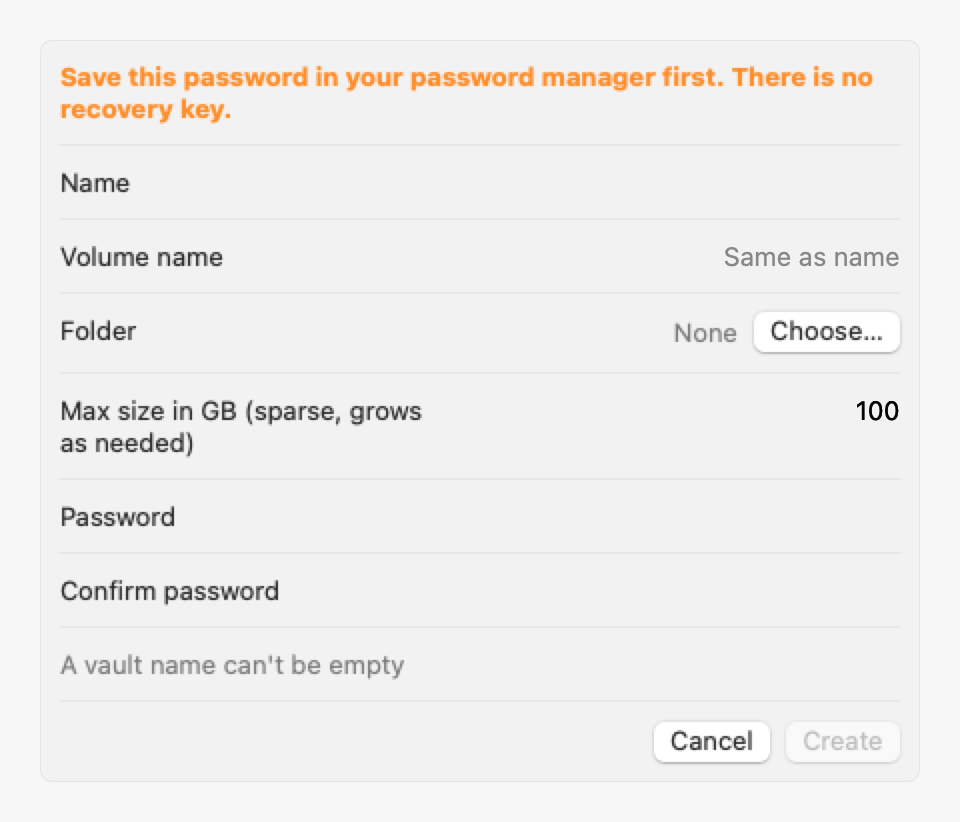
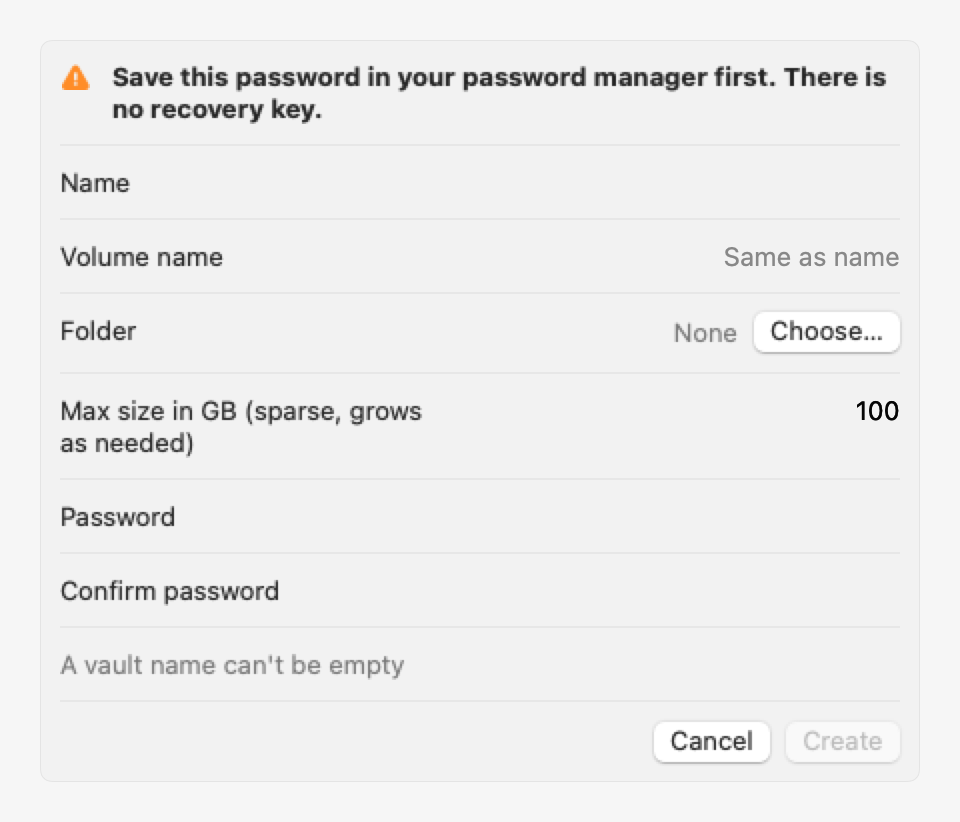
docs: Settings and New Vault screenshots for 0.3.0 (#9)
* docs: re-render the Settings screenshot for 0.3.0

Rendered offscreen with the built-in --render-settings demo data, full
form height (the real window scrolls at 680 pt), opaque, metadata chunks
stripped.

* docs: re-render the New Vault screenshot for 0.3.0

The password warning is now an icon label with primary text, not orange
text. Same offscreen --render-newvault demo render, metadata stripped.

* docs: settings screenshot render reproduces the committed image

SettingsView takes an optional height (default 680, the scrolling window);
--render-settings renders the whole form at 1036 pt. CONTRIBUTING renders
from the packaged app so the version label is filled in.

---------

Changed region(s): [[0.0625, 0.0608, 0.9375, 0.1521]]

diff --git a/Sources/VaultBarApp/Views.swift b/Sources/VaultBarApp/Views.swift
@@ -4,6 +4,7 @@ import VaultBarCore
 
 struct SettingsView: View {
     @ObservedObject var controller: AppController
+    var height: CGFloat = 680
     private let version = Bundle.main.infoDictionary?["CFBundleShortVersionString"] as? String ?? ""
 
     var body: some View {
@@ -88,7 +89,7 @@ struct SettingsView: View {
             }
         }
         .formStyle(.grouped)
-        .frame(width: 520, height: 680) // the grouped form scrolls instead of growing with every vault
+        .frame(width: 520, height: height) // the grouped form scrolls instead of growing with every vault
     }
 }
 

diff --git a/Sources/VaultBarApp/main.swift b/Sources/VaultBarApp/main.swift
@@ -20,7 +20,7 @@ if arguments.count == 2, ["--render-settings", "--render-newvault"].contains(arg
     let content: AnyView
     switch arguments[0] {
     case "--render-newvault": content = AnyView(NewVaultView(controller: controller, close: {}))
-    default: content = AnyView(SettingsView(controller: controller))
+    default: content = AnyView(SettingsView(controller: controller, height: 1036)) // the whole form, unscrolled
     }
     let view = NSHostingView(rootView: content.environment(\.controlActiveState, .key))
     view.frame.size = view.fittingSize

diff --git a/CONTRIBUTING.md b/CONTRIBUTING.md
@@ -46,8 +46,13 @@ scheme), installs its login agent and removes everything again at the end.
 - `Tests/VaultBarCoreTests` — Swift Testing suite for the core (plus the gated end-to-end test).
 - `Assets/icons` — SVG sources for the app and menu bar icons; regenerate the PNG/icns with
   `Scripts/make_icons.sh` (needs `brew install librsvg`).
-- `docs/screenshots/settings.png` — rendered offscreen with demo vaults:
-  `swift build && .build/debug/VaultBarApp --render-settings docs/screenshots/settings.png`.
+- `docs/screenshots/settings.png` and `newvault.png` — rendered offscreen with demo vaults, from the packaged
+  app so the version label is filled in:
+  ```sh
+  Scripts/package_app.sh
+  dist/VaultBar.app/Contents/MacOS/VaultBar --render-settings docs/screenshots/settings.png
+  dist/VaultBar.app/Contents/MacOS/VaultBar --render-newvault docs/screenshots/newvault.png
+  ```
 
 ## Workflow
 
